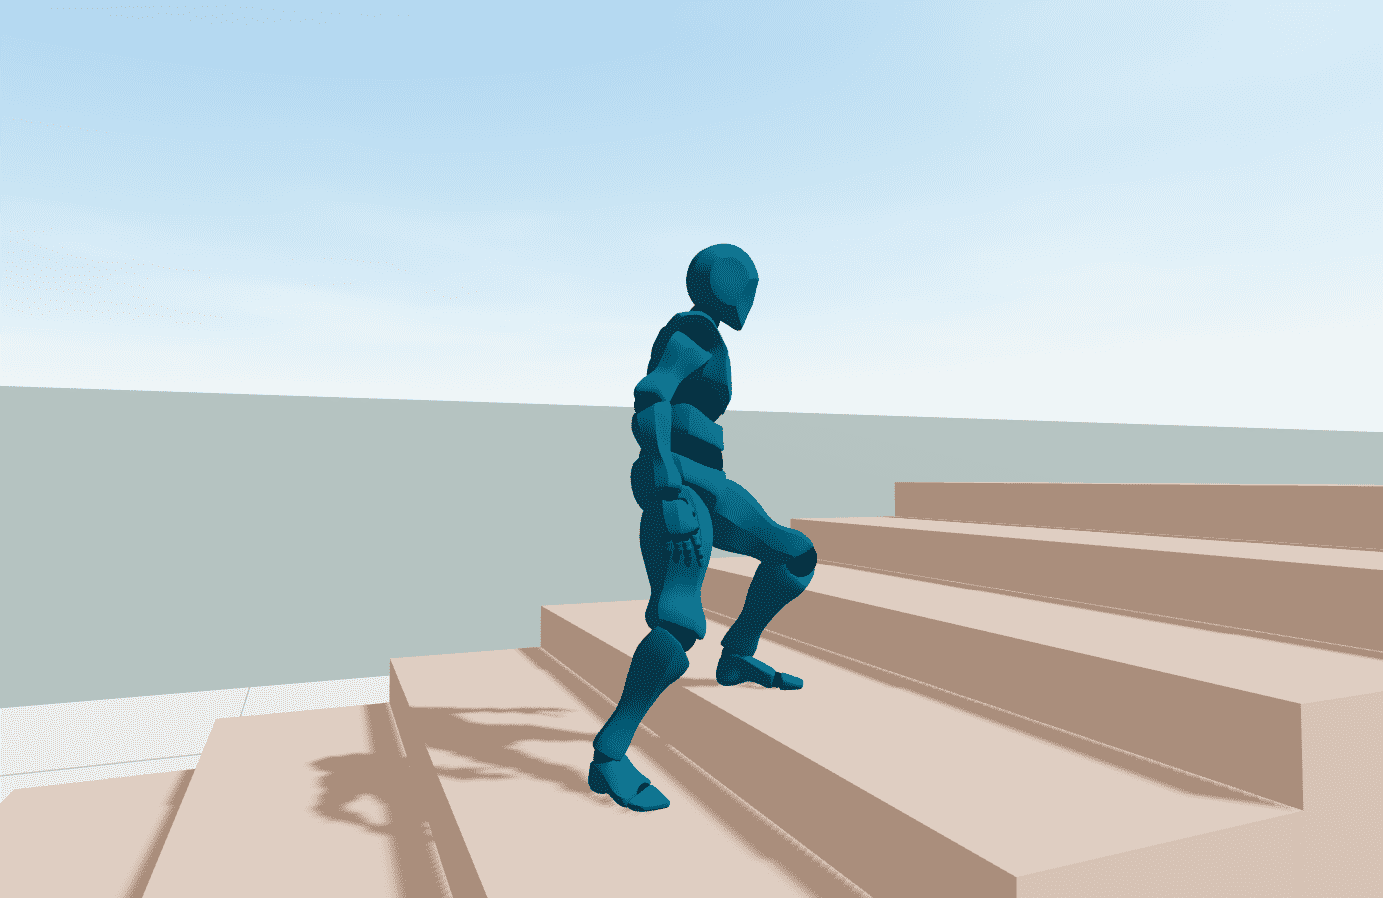
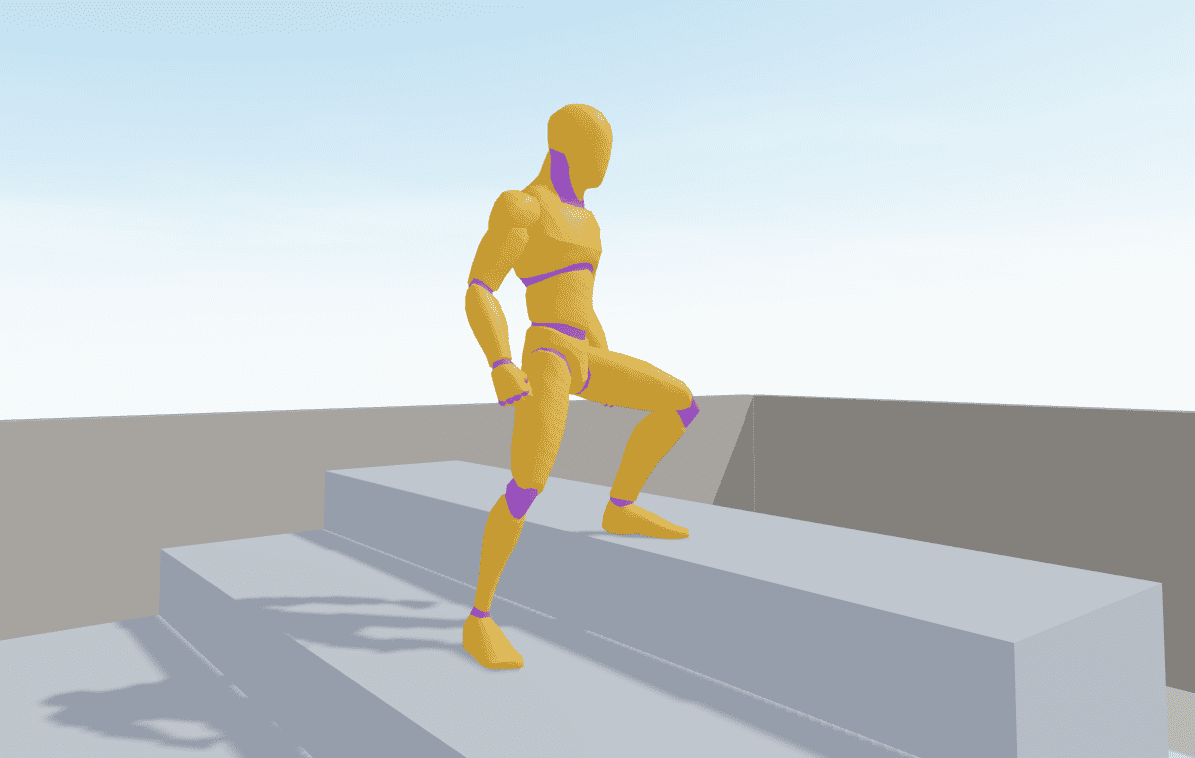
替换footIK示例图片，添加人物模型顶部提示

diff --git a/example/footIK.html b/example/footIK.html
@@ -91,6 +91,30 @@
                 height: 24px;
             }
 
+            #top-notice {
+                position: fixed;
+                top: 12px;
+                left: 50%;
+                transform: translateX(-50%);
+                z-index: 9999;
+                background: rgba(0, 0, 0, 0.45);
+                color: #e6eef6;
+                padding: 7px 16px;
+                border-radius: 8px;
+                font-family: system-ui, -apple-system, "Segoe UI", Roboto, sans-serif;
+                font-size: 13px;
+                white-space: nowrap;
+                backdrop-filter: blur(4px);
+                box-shadow: 0 4px 12px rgba(0, 0, 0, 0.35);
+            }
+            #top-notice a {
+                color: #79c0ff;
+                text-decoration: none;
+            }
+            #top-notice a:hover {
+                text-decoration: underline;
+            }
+
             @media (hover: none) and (pointer: coarse), (max-width: 768px) {
                 .hud,
                 .source {
@@ -102,6 +126,14 @@
     </head>
     <body>
         <div id="container"></div>
+
+        <div id="top-notice">
+            Character Model:
+            <a href="https://quaternius.itch.io/universal-animation-library" target="_blank" rel="noopener noreferrer">
+                Universal Animation Library
+            </a>
+        </div>
+
         <div class="hud" role="note" aria-label="Controls">
             <div class="row hint-group">
                 <span class="hint-text">Move:</span>
